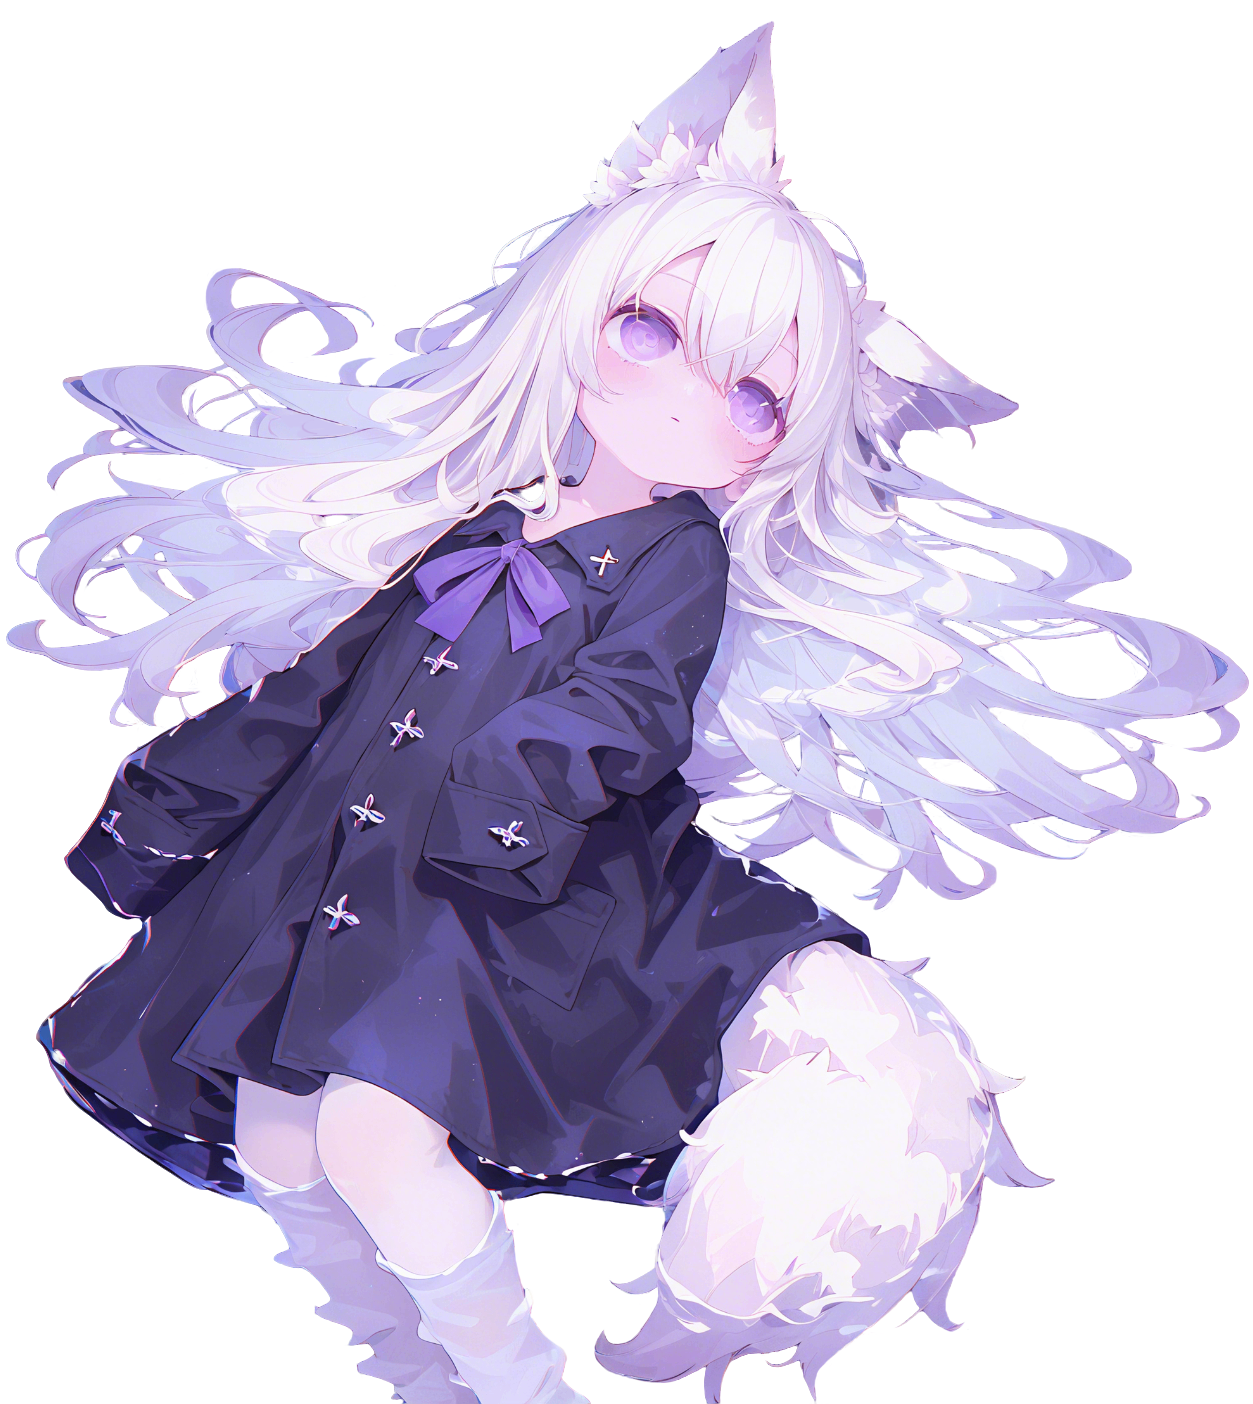
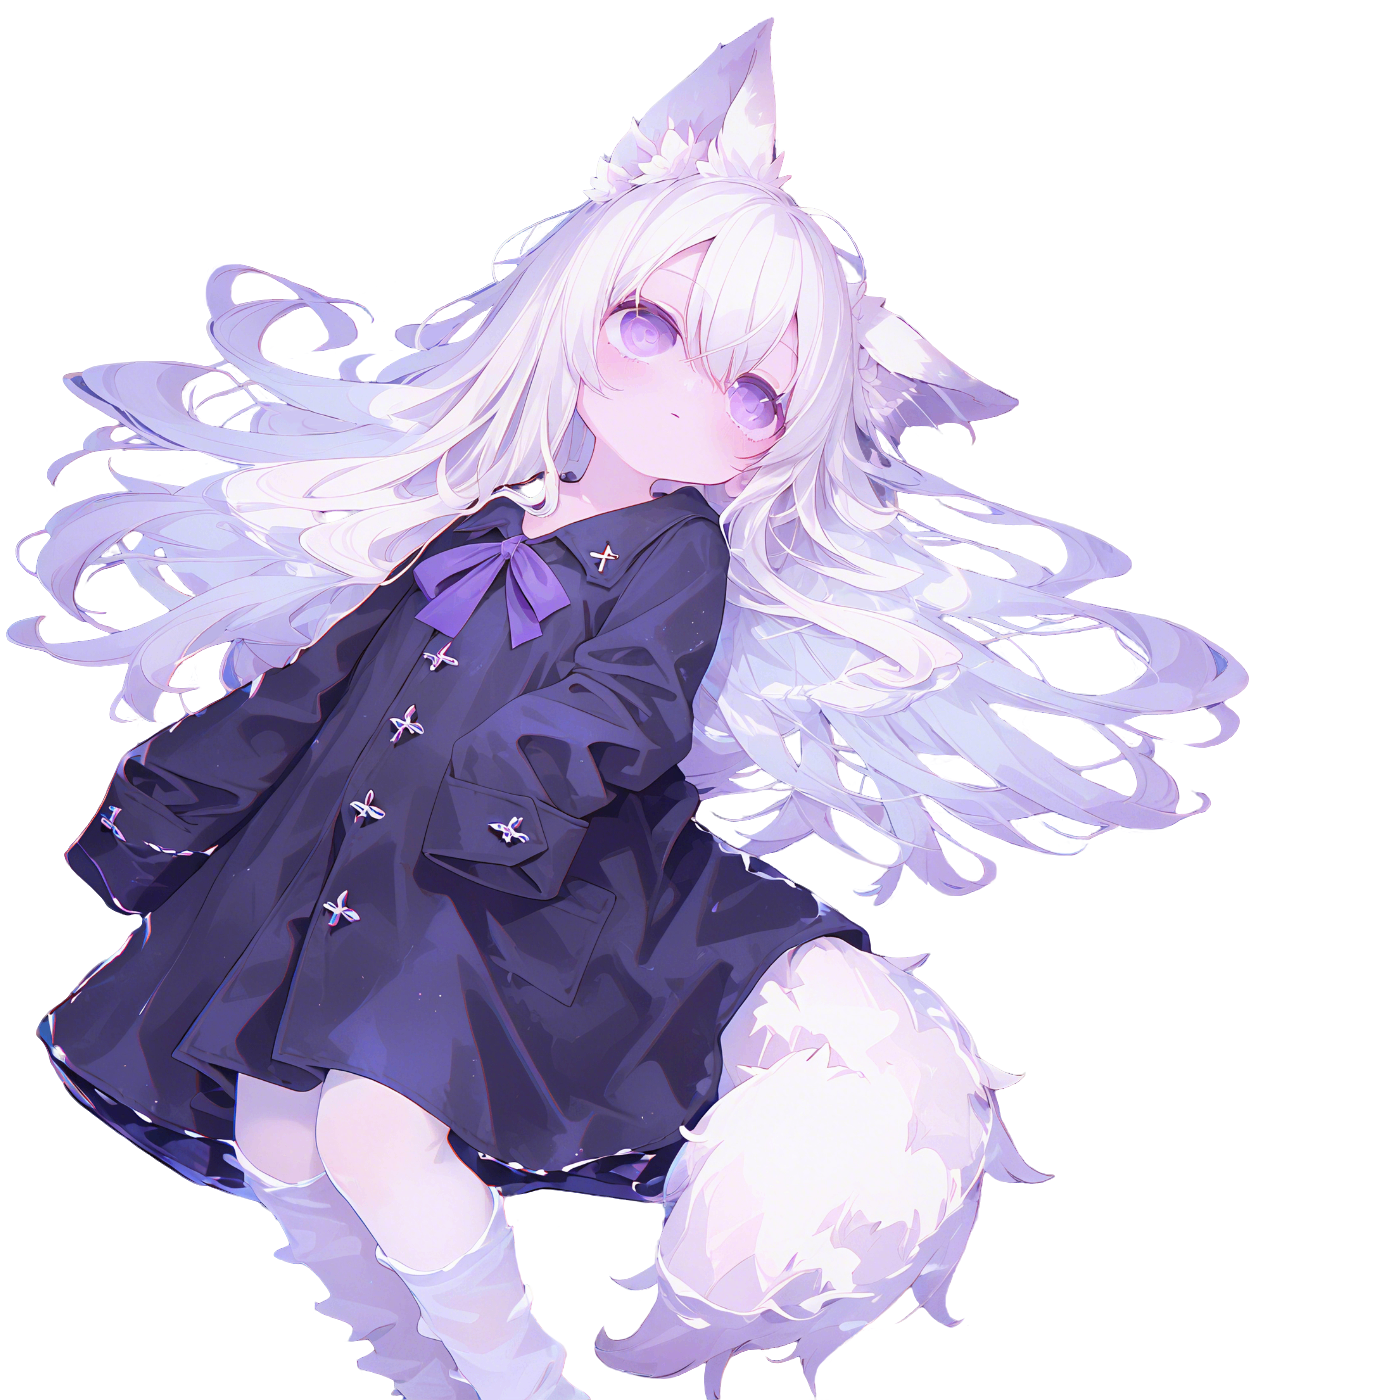
fix: char

diff --git a/phire-ui/src/page/home.rs b/phire-ui/src/page/home.rs
@@ -273,7 +273,7 @@ impl Page for HomePage {
         let offset = s.gyro_offset;
 
         s.render_fader(ui, |ui, c| {
-            let r = Rect::new(offset.x * 0.4 - 0.9, offset.y * 0.4 - ui.top + 0.1, 1.4, 1.65);
+            let r = Rect::new(offset.x * 0.4 - 0.9, offset.y * 0.4 - ui.top + 0.1, 1.5, 1.5);
             ui.fill_rect(r, (*self.character, r, ScaleType::CropCenter, c));
         });
 
